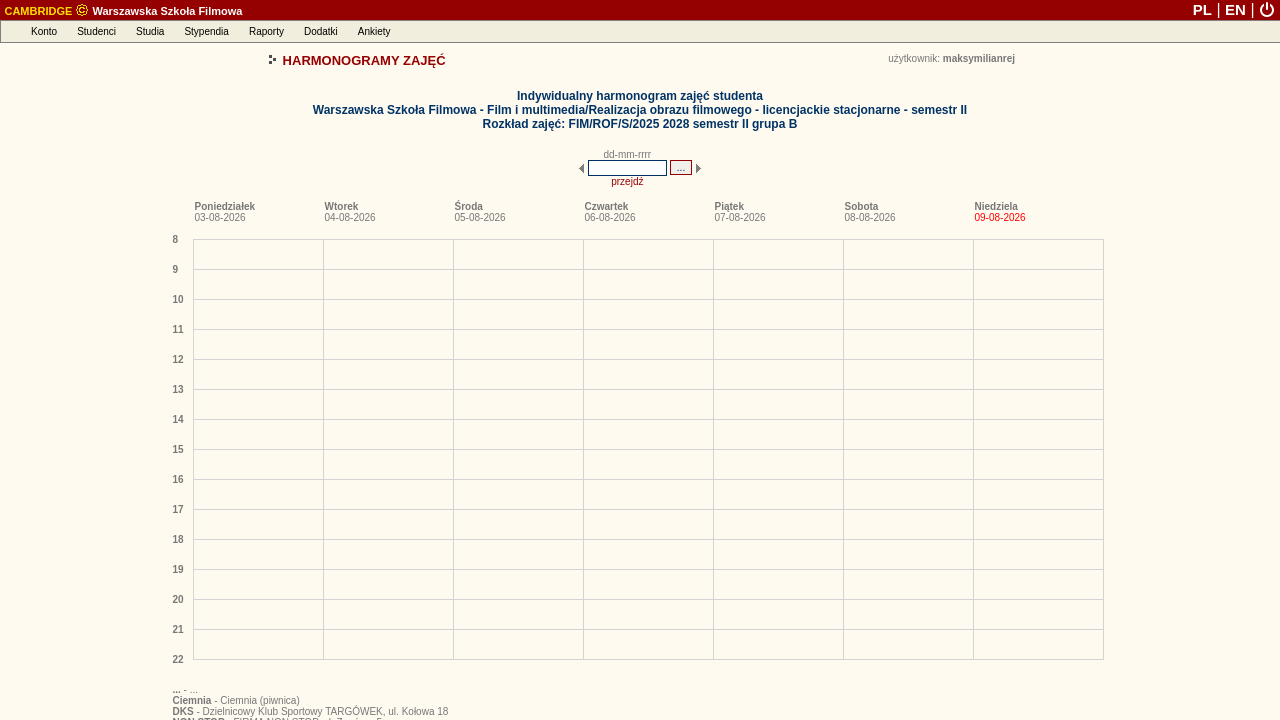
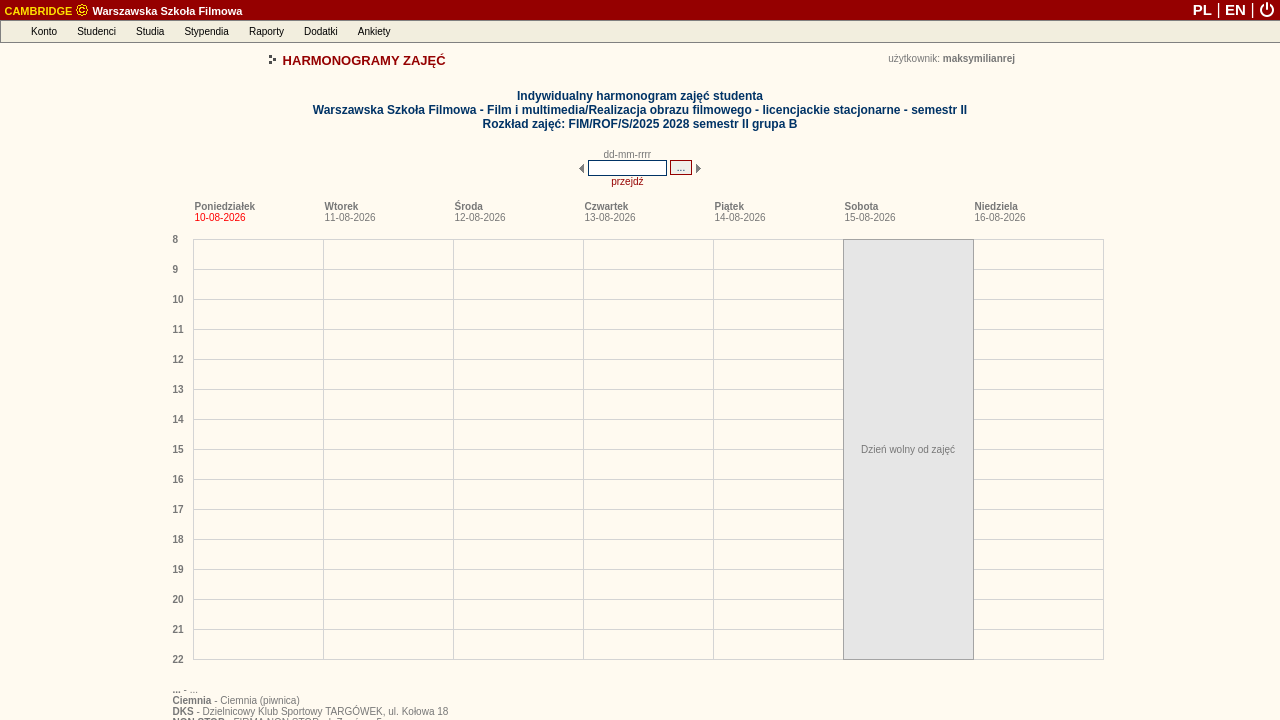
deploy: 20767e2667a06bb4135101eddfaa63d366c8849d

Changed region(s): [[0.6562, 0.3056, 0.7812, 0.9167], [0.75, 0.275, 0.7812, 0.3056], [0.1562, 0.275, 0.1875, 0.3056]]

diff --git a/debug_harmonogram_page.html b/debug_harmonogram_page.html
@@ -163,8 +163,8 @@
 
 
 
-<link rel="stylesheet" type="text/css" href="/palio/html.run?_Instance=cambridge&amp;_PageID=4&amp;_SessionID=1729791&amp;_SessionKey=578689474&amp;ZoomView=&amp;DisplayMode=&amp;_CheckSum=-984828866">
-<script language="javascript" type="text/javascript" src="/palio/html.run?_Instance=cambridge&amp;_PageID=5&amp;_SessionID=1729791&amp;_SessionKey=578689474&amp;_CheckSum=1717353900"></script>
+<link rel="stylesheet" type="text/css" href="/palio/html.run?_Instance=cambridge&amp;_PageID=4&amp;_SessionID=1729858&amp;_SessionKey=1174206139&amp;ZoomView=&amp;DisplayMode=&amp;_CheckSum=-613058594">
+<script language="javascript" type="text/javascript" src="/palio/html.run?_Instance=cambridge&amp;_PageID=5&amp;_SessionID=1729858&amp;_SessionKey=1174206139&amp;_CheckSum=1014955050"></script>
 
 
 
@@ -354,9 +354,9 @@ CambridgeMenuBar = new jsDOMenuBar("absolute", true)
 
 AccountMenu=new jsDOMenu(200, "", "absolute", false);
 
-AccountMenu.addMenuItem(new menuItem("Zmiana hasła", "", "/palio/html.run?_Instance=cambridge&amp;_PageID=11&amp;_SessionID=1729791&amp;_SessionKey=578689474&amp;_CheckSum=120238619"));
+AccountMenu.addMenuItem(new menuItem("Zmiana hasła", "", "/palio/html.run?_Instance=cambridge&amp;_PageID=11&amp;_SessionID=1729858&amp;_SessionKey=1174206139&amp;_CheckSum=-1250978405"));
 
-  AccountMenu.addMenuItem(new menuItem("Komunikator", "", "/palio/html.run?_Instance=cambridge&amp;_PageID=180&amp;_SessionID=1729791&amp;_SessionKey=578689474&amp;_CheckSum=1756840160"));
+  AccountMenu.addMenuItem(new menuItem("Komunikator", "", "/palio/html.run?_Instance=cambridge&amp;_PageID=180&amp;_SessionID=1729858&amp;_SessionKey=1174206139&amp;_CheckSum=-2055938186"));
 
 
 
@@ -369,7 +369,7 @@ AccountMenu.addMenuItem(new menuItem("Yammer", "", "https://www.yammer.com/onlin
 
 AccountMenu.addMenuItem(new menuItem("-"));
 
-AccountMenu.addMenuItem(new menuItem("Wylogowanie", "", "https://student.szkolafilmowa.pl/palio/html.run?_Instance=cambridge&amp;_PageID=10012&amp;_Action=Logout&amp;_SessionID=1729791&amp;_SessionKey=578689474"));
+AccountMenu.addMenuItem(new menuItem("Wylogowanie", "", "https://student.szkolafilmowa.pl/palio/html.run?_Instance=cambridge&amp;_PageID=10012&amp;_Action=Logout&amp;_SessionID=1729858&amp;_SessionKey=1174206139"));
 
 CambridgeMenuBar.addMenuBarItem(new menuBarItem("Konto", AccountMenu));
 
@@ -382,12 +382,12 @@ StudentsMenu=new jsDOMenu(320, "", "absolute", false);
 
 
 
-StudentsMenu.addMenuItem(new menuItem("Moje dane", "", "/palio/html.run?_Instance=cambridge&amp;_PageID=185&amp;_SessionID=1729791&amp;_SessionKey=578689474&amp;_CheckSum=614165989"));
+StudentsMenu.addMenuItem(new menuItem("Moje dane", "", "/palio/html.run?_Instance=cambridge&amp;_PageID=185&amp;_SessionID=1729858&amp;_SessionKey=1174206139&amp;_CheckSum=1175868177"));
 
 
 
 
-StudentsMenu.addMenuItem(new menuItem("Moje indeksy", "", "/palio/html.run?_Instance=cambridge&amp;_PageID=186&amp;_SessionID=1729791&amp;_SessionKey=578689474&amp;_CheckSum=1244624614"));
+StudentsMenu.addMenuItem(new menuItem("Moje indeksy", "", "/palio/html.run?_Instance=cambridge&amp;_PageID=186&amp;_SessionID=1729858&amp;_SessionKey=1174206139&amp;_CheckSum=-754750928"));
 
 
 
@@ -426,7 +426,7 @@ StudiesMenu=new jsDOMenu(250, "", "absolute", false);
 
 
 
-StudiesMenu.addMenuItem(new menuItem("Moje plany studiów", "", "/palio/html.run?_Instance=cambridge&amp;_PageID=258&amp;_SessionID=1729791&amp;_SessionKey=578689474&amp;_CheckSum=-12185524"));
+StudiesMenu.addMenuItem(new menuItem("Moje plany studiów", "", "/palio/html.run?_Instance=cambridge&amp;_PageID=258&amp;_SessionID=1729858&amp;_SessionKey=1174206139&amp;_CheckSum=-1061159542"));
 
 
 
@@ -434,13 +434,13 @@ StudiesMenu.addMenuItem(new menuItem("Moje plany studiów", "", "/palio/html.run
 
 
 
-StudiesMenu.addMenuItem(new menuItem("Harmonogramy zajęć", "", "/palio/html.run?_Instance=cambridge&amp;_PageID=95&amp;_SessionID=1729791&amp;_SessionKey=578689474&amp;_CheckSum=82022167"));
+StudiesMenu.addMenuItem(new menuItem("Harmonogramy zajęć", "", "/palio/html.run?_Instance=cambridge&amp;_PageID=95&amp;_SessionID=1729858&amp;_SessionKey=1174206139&amp;_CheckSum=1859278879"));
 
-StudiesMenu.addMenuItem(new menuItem("Harmonogramy moich zajęć", "", "/palio/html.run?_Instance=cambridge&amp;_PageID=191&amp;_SessionID=1729791&amp;_SessionKey=578689474&amp;_CheckSum=456679680"));
+StudiesMenu.addMenuItem(new menuItem("Harmonogramy moich zajęć", "", "/palio/html.run?_Instance=cambridge&amp;_PageID=191&amp;_SessionID=1729858&amp;_SessionKey=1174206139&amp;_CheckSum=588759894"));
 
-StudiesMenu.addMenuItem(new menuItem("Harmonogramy innych zajęć", "", "/palio/html.run?_Instance=cambridge&amp;_PageID=248&amp;_SessionID=1729791&amp;_SessionKey=578689474&amp;_CheckSum=1918433581"));
+StudiesMenu.addMenuItem(new menuItem("Harmonogramy innych zajęć", "", "/palio/html.run?_Instance=cambridge&amp;_PageID=248&amp;_SessionID=1729858&amp;_SessionKey=1174206139&amp;_CheckSum=-1341509431"));
 
-StudiesMenu.addMenuItem(new menuItem("Harmonogramy zajętości sal", "", "/palio/html.run?_Instance=cambridge&amp;_PageID=269&amp;_SessionID=1729791&amp;_SessionKey=578689474&amp;_CheckSum=-1312346004"));
+StudiesMenu.addMenuItem(new menuItem("Harmonogramy zajętości sal", "", "/palio/html.run?_Instance=cambridge&amp;_PageID=269&amp;_SessionID=1729858&amp;_SessionKey=1174206139&amp;_CheckSum=1583538538"));
 
 
 
@@ -470,9 +470,9 @@ CambridgeMenuBar.addMenuBarItem(new menuBarItem("Studia", StudiesMenu));
 ScholarshipsMenu=new jsDOMenu(230, "", "absolute", false);
 
 
-ScholarshipsMenu.addMenuItem(new menuItem("Moje stypendia", "", "/palio/html.run?_Instance=cambridge&amp;_PageID=187&amp;_SessionID=1729791&amp;_SessionKey=578689474&amp;_CheckSum=1875083239"));
+ScholarshipsMenu.addMenuItem(new menuItem("Moje stypendia", "", "/palio/html.run?_Instance=cambridge&amp;_PageID=187&amp;_SessionID=1729858&amp;_SessionKey=1174206139&amp;_CheckSum=1609597263"));
 
-ScholarshipsMenu.addMenuItem(new menuItem("Mój numer rachunku", "", "/palio/html.run?_Instance=cambridge&amp;_PageID=380&amp;_SessionID=1729791&amp;_SessionKey=578689474&amp;_CheckSum=-1977427358"));
+ScholarshipsMenu.addMenuItem(new menuItem("Mój numer rachunku", "", "/palio/html.run?_Instance=cambridge&amp;_PageID=380&amp;_SessionID=1729858&amp;_SessionKey=1174206139&amp;_CheckSum=-1854114252"));
 
 
 
@@ -482,9 +482,9 @@ ScholarshipsMenu.addMenuItem(new menuItem("Mój numer rachunku", "", "/palio/htm
 ScholarshipsMenu.addMenuItem(new menuItem("-"));
 
 
-ScholarshipsMenu.addMenuItem(new menuItem("Fundusze stypendialne", "", "/palio/html.run?_Instance=cambridge&amp;_PageID=54&amp;_SessionID=1729791&amp;_SessionKey=578689474&amp;_CheckSum=-1415894630"));
+ScholarshipsMenu.addMenuItem(new menuItem("Fundusze stypendialne", "", "/palio/html.run?_Instance=cambridge&amp;_PageID=54&amp;_SessionID=1729858&amp;_SessionKey=1174206139&amp;_CheckSum=-1626468868"));
 
-ScholarshipsMenu.addMenuItem(new menuItem("Rodzaje stypendiów", "", "/palio/html.run?_Instance=cambridge&amp;_PageID=55&amp;_SessionID=1729791&amp;_SessionKey=578689474&amp;_CheckSum=-785436005"));
+ScholarshipsMenu.addMenuItem(new menuItem("Rodzaje stypendiów", "", "/palio/html.run?_Instance=cambridge&amp;_PageID=55&amp;_SessionID=1729858&amp;_SessionKey=1174206139&amp;_CheckSum=737879323"));
 
 
 
@@ -495,7 +495,7 @@ CambridgeMenuBar.addMenuBarItem(new menuBarItem("Stypendia", ScholarshipsMenu));
 ReportsMenu=new jsDOMenu(200, "", "absolute", false);
 
 
-ReportsMenu.addMenuItem(new menuItem("Generowanie raportów", "", "/palio/html.run?_Instance=cambridge&amp;_PageID=68&amp;_SessionID=1729791&amp;_SessionKey=578689474&amp;_CheckSum=-824679235"));
+ReportsMenu.addMenuItem(new menuItem("Generowanie raportów", "", "/palio/html.run?_Instance=cambridge&amp;_PageID=68&amp;_SessionID=1729858&amp;_SessionKey=1174206139&amp;_CheckSum=-478660807"));
 
 
 
@@ -505,7 +505,7 @@ CambridgeMenuBar.addMenuBarItem(new menuBarItem("Raporty", ReportsMenu));
 
 AdditionalsMenu=new jsDOMenu(200, "", "absolute", false);
 
-AdditionalsMenu.addMenuItem(new menuItem("Forum internetowe", "", "/palio/html.run?_Instance=cambridge&amp;_PageID=8001&amp;_SessionID=1729791&amp;_SessionKey=578689474&amp;_CheckSum=675355508"));
+AdditionalsMenu.addMenuItem(new menuItem("Forum internetowe", "", "/palio/html.run?_Instance=cambridge&amp;_PageID=8001&amp;_SessionID=1729858&amp;_SessionKey=1174206139&amp;_CheckSum=-1222224030"));
 
 
 
@@ -539,7 +539,7 @@ PollsMenu=new jsDOMenu(225, "", "absolute", false);
 
 
 
-PollsMenu.addMenuItem(new menuItem("Wypełnianie ankiet", "", "/palio/html.run?_Instance=cambridge&amp;_PageID=227&amp;_SessionID=1729791&amp;_SessionKey=578689474&amp;_CheckSum=854245870"));
+PollsMenu.addMenuItem(new menuItem("Wypełnianie ankiet", "", "/palio/html.run?_Instance=cambridge&amp;_PageID=227&amp;_SessionID=1729858&amp;_SessionKey=1174206139&amp;_CheckSum=28409896"));
 
 
 CambridgeMenuBar.addMenuBarItem(new menuBarItem("Ankiety", PollsMenu));
@@ -576,7 +576,7 @@ CambridgeMenuBar.moveTo(0,20);
 <table width="100%" border="0" cellspacing="0" cellpadding="0" align="center">
 <tbody><tr class="top_belt">
 
-<td align="left" height="20"><b>&nbsp;<a class="belt" href="/palio/html.run?_Instance=cambridge&amp;_PageID=6&amp;_SessionID=1729791&amp;_SessionKey=578689474&amp;_CheckSum=-1947154771"><span class="belt_application">CAMBRIDGE</span> <img src="/palio/html.media?_Instance=cambridge&amp;_Option=Palio&amp;_ID=51&amp;_CheckSum=684598873" width="14" height="14" border="0" style="position:relative;top:-2px;vertical-align:bottom"> Warszawska Szkoła Filmowa</a></b></td>
+<td align="left" height="20"><b>&nbsp;<a class="belt" href="/palio/html.run?_Instance=cambridge&amp;_PageID=6&amp;_SessionID=1729858&amp;_SessionKey=1174206139&amp;_CheckSum=-915664055"><span class="belt_application">CAMBRIDGE</span> <img src="/palio/html.media?_Instance=cambridge&amp;_Option=Palio&amp;_ID=51&amp;_CheckSum=684598873" width="14" height="14" border="0" style="position:relative;top:-2px;vertical-align:bottom"> Warszawska Szkoła Filmowa</a></b></td>
 <td align="right">
 
 
@@ -587,13 +587,13 @@ CambridgeMenuBar.moveTo(0,20);
 
 
 
-<a href="/palio/html.run?_Instance=cambridge&amp;_PageID=6&amp;_SessionID=1729791&amp;_SessionKey=578689474&amp;SetLanguage=pl&amp;_CheckSum=1824300621" class="belt" style="font-size:15px;line-height:18px;text-decoration:none" title="polski"><b>PL</b></a>
+<a href="/palio/html.run?_Instance=cambridge&amp;_PageID=6&amp;_SessionID=1729858&amp;_SessionKey=1174206139&amp;SetLanguage=pl&amp;_CheckSum=1101296689" class="belt" style="font-size:15px;line-height:18px;text-decoration:none" title="polski"><b>PL</b></a>
 <span class="belt" style="font-size:16px">|</span>
-<a href="/palio/html.run?_Instance=cambridge&amp;_PageID=6&amp;_SessionID=1729791&amp;_SessionKey=578689474&amp;SetLanguage=en&amp;_CheckSum=-577883392" class="belt" style="font-size:15px;line-height:18px;text-decoration:none" title="english"><b>EN</b></a>
+<a href="/palio/html.run?_Instance=cambridge&amp;_PageID=6&amp;_SessionID=1729858&amp;_SessionKey=1174206139&amp;SetLanguage=en&amp;_CheckSum=-1300887324" class="belt" style="font-size:15px;line-height:18px;text-decoration:none" title="english"><b>EN</b></a>
 <span class="belt" style="font-size:16px">|</span>
 
 
-<img src="/palio/html.media?_Instance=cambridge&amp;_Option=Palio&amp;_ID=94&amp;_CheckSum=-1316787974" style="cursor:pointer;vertical-align:bottom;margin-bottom:2px;margin-right:5px" alt="Wyloguj" title="Wyloguj" onclick="if(confirm('Czy na pewno chcesz się wylogować?'))window.location='https://student.szkolafilmowa.pl/palio/html.run?_Instance=cambridge&amp;_PageID=10012&amp;_Action=Logout&amp;_SessionID=1729791&amp;_SessionKey=578689474'">
+<img src="/palio/html.media?_Instance=cambridge&amp;_Option=Palio&amp;_ID=94&amp;_CheckSum=-1316787974" style="cursor:pointer;vertical-align:bottom;margin-bottom:2px;margin-right:5px" alt="Wyloguj" title="Wyloguj" onclick="if(confirm('Czy na pewno chcesz się wylogować?'))window.location='https://student.szkolafilmowa.pl/palio/html.run?_Instance=cambridge&amp;_PageID=10012&amp;_Action=Logout&amp;_SessionID=1729858&amp;_SessionKey=1174206139'">
 </td>
 
 </tr>
@@ -2351,16 +2351,16 @@ document.schedule_scroll_form.submit();
 }
 function goForward()
 {
-document.schedule_scroll_form._firstDayOfWeek.value = '26-10-2026';
+document.schedule_scroll_form._firstDayOfWeek.value = '31-08-2026';
 document.schedule_scroll_form.submit();
 }
 function goBackward()
 {
-document.schedule_scroll_form._firstDayOfWeek.value = '17-10-2026';
+document.schedule_scroll_form._firstDayOfWeek.value = '22-08-2026';
 document.schedule_scroll_form.submit();
 }
 </script>
-<form method="post" name="schedule_scroll_form" id="schedule_scroll_form" action="/palio/html.run?_Instance=cambridge&amp;_PageID=191&amp;_SessionID=1729791&amp;_SessionKey=578689474&amp;_RowID=6932&amp;_RowIDType=I&amp;_CheckSum=74201065" onsubmit="return checkFrm_schedule_scroll_form(this)">
+<form method="post" name="schedule_scroll_form" id="schedule_scroll_form" action="/palio/html.run?_Instance=cambridge&amp;_PageID=191&amp;_SessionID=1729858&amp;_SessionKey=1174206139&amp;_RowID=6932&amp;_RowIDType=I&amp;_CheckSum=1714223187" onsubmit="return checkFrm_schedule_scroll_form(this)">
 <div style="display:none;"><input type="hidden" name="_formSubmitted" value="yes"></div>
 <input type="hidden" name="_firstDayOfWeek">
 <table cellspacing="0" cellpadding="0" border="0" align="center">
@@ -3723,7 +3723,7 @@ tipDivElement.style.visibility="hidden"
 <tbody><tr><td class="font">
 <b class="font">Poniedziałek</b><br>
 
-<span class="font">19-10-2026</span>
+<span class="font">24-08-2026</span>
 </td></tr>
 </tbody></table>
 </div>
@@ -3738,7 +3738,7 @@ tipDivElement.style.visibility="hidden"
 <tbody><tr><td class="font">
 <b class="font">Wtorek</b><br>
 
-<span class="font">20-10-2026</span>
+<span class="font">25-08-2026</span>
 </td></tr>
 </tbody></table>
 </div>
@@ -3753,7 +3753,7 @@ tipDivElement.style.visibility="hidden"
 <tbody><tr><td class="font">
 <b class="font">Środa</b><br>
 
-<span class="font">21-10-2026</span>
+<span class="font">26-08-2026</span>
 </td></tr>
 </tbody></table>
 </div>
@@ -3768,7 +3768,7 @@ tipDivElement.style.visibility="hidden"
 <tbody><tr><td class="font">
 <b class="font">Czwartek</b><br>
 
-<span class="font">22-10-2026</span>
+<span class="font">27-08-2026</span>
 </td></tr>
 </tbody></table>
 </div>
@@ -3783,7 +3783,7 @@ tipDivElement.style.visibility="hidden"
 <tbody><tr><td class="font">
 <b class="font">Piątek</b><br>
 
-<span class="font">23-10-2026</span>
+<span class="font">28-08-2026</span>
 </td></tr>
 </tbody></table>
 </div>
@@ -3798,7 +3798,7 @@ tipDivElement.style.visibility="hidden"
 <tbody><tr><td class="font">
 <b class="font">Sobota</b><br>
 
-<span class="font">24-10-2026</span>
+<span class="font">29-08-2026</span>
 </td></tr>
 </tbody></table>
 </div>
@@ -3813,7 +3813,7 @@ tipDivElement.style.visibility="hidden"
 <tbody><tr><td class="font">
 <b class="font">Niedziela</b><br>
 
-<span class="font">25-10-2026</span>
+<span class="font">30-08-2026</span>
 </td></tr>
 </tbody></table>
 </div>
@@ -3848,8 +3848,8 @@ tipDivElement.style.visibility="hidden"
 <td align="right">
 <table cellspacing="0" cellpadding="2" border="0">
 <tbody><tr>
-<td valign="middle"><a class="link" href="/palio/html.run?_Instance=cambridge&amp;_PageID=96&amp;_SessionID=1729791&amp;_SessionKey=578689474&amp;_RowID=6932&amp;_RowIDType=I&amp;_firstDayOfWeek=19-10-2026&amp;_CheckSum=-1167722058" target="_blank">drukuj</a></td>
-<td valign="middle"><a class="link" href="/palio/html.run?_Instance=cambridge&amp;_PageID=96&amp;_SessionID=1729791&amp;_SessionKey=578689474&amp;_RowID=6932&amp;_RowIDType=I&amp;_firstDayOfWeek=19-10-2026&amp;_CheckSum=-1167722058" target="_blank"><img src="/palio/html.media?_Instance=cambridge&amp;_Option=Palio&amp;_ID=26&amp;_CheckSum=1936112049" awidth="16" height="14" alt="drukuj" title="drukuj" border="0"></a></td>
+<td valign="middle"><a class="link" href="/palio/html.run?_Instance=cambridge&amp;_PageID=96&amp;_SessionID=1729858&amp;_SessionKey=1174206139&amp;_RowID=6932&amp;_RowIDType=I&amp;_firstDayOfWeek=24-08-2026&amp;_CheckSum=-1494445077" target="_blank">drukuj</a></td>
+<td valign="middle"><a class="link" href="/palio/html.run?_Instance=cambridge&amp;_PageID=96&amp;_SessionID=1729858&amp;_SessionKey=1174206139&amp;_RowID=6932&amp;_RowIDType=I&amp;_firstDayOfWeek=24-08-2026&amp;_CheckSum=-1494445077" target="_blank"><img src="/palio/html.media?_Instance=cambridge&amp;_Option=Palio&amp;_ID=26&amp;_CheckSum=1936112049" awidth="16" height="14" alt="drukuj" title="drukuj" border="0"></a></td>
 </tr>
 </tbody></table>
 </td>
@@ -3881,7 +3881,7 @@ tipDivElement.style.visibility="hidden"
 
 
 
-<input type="button" name="jump_action" value="Powrót do listy harmonogramów zajęć" class="button" onclick="window.location='/palio/html.run?_Instance=cambridge&amp;_PageID=191&amp;_SessionID=1729791&amp;_SessionKey=578689474&amp;_CheckSum=456679680'">
+<input type="button" name="jump_action" value="Powrót do listy harmonogramów zajęć" class="button" onclick="window.location='/palio/html.run?_Instance=cambridge&amp;_PageID=191&amp;_SessionID=1729858&amp;_SessionKey=1174206139&amp;_CheckSum=588759894'">
 
 
 
@@ -3906,7 +3906,7 @@ tipDivElement.style.visibility="hidden"
 grayscaleImagesIE10Plus();
 </script>
 
-<p align="right" class="font"><i style="color:#aaaaaa">Czas generowania strony 78 ms</i></p>
+<p align="right" class="font"><i style="color:#aaaaaa">Czas generowania strony 97 ms</i></p>
 
 
 </body></html>
